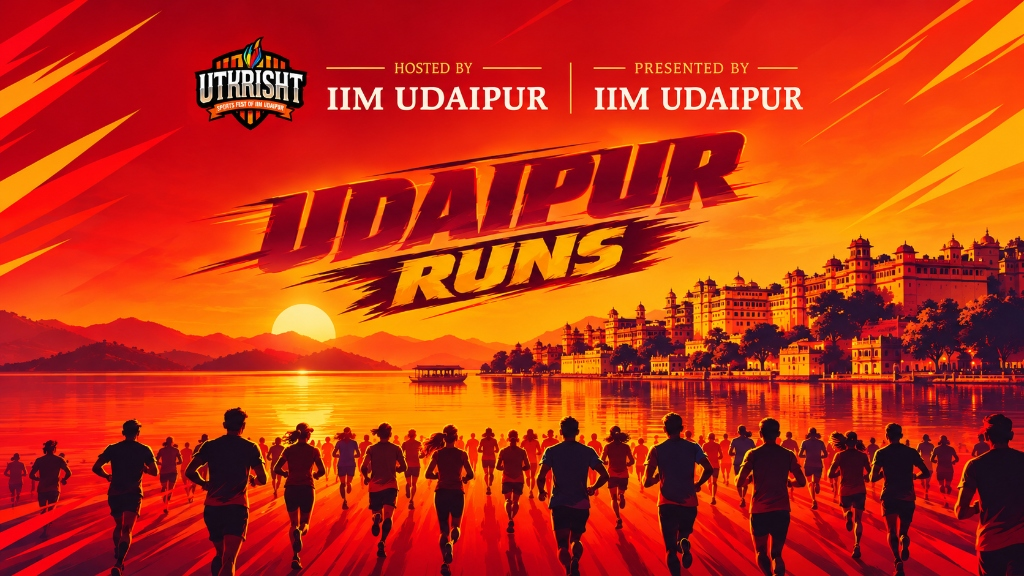
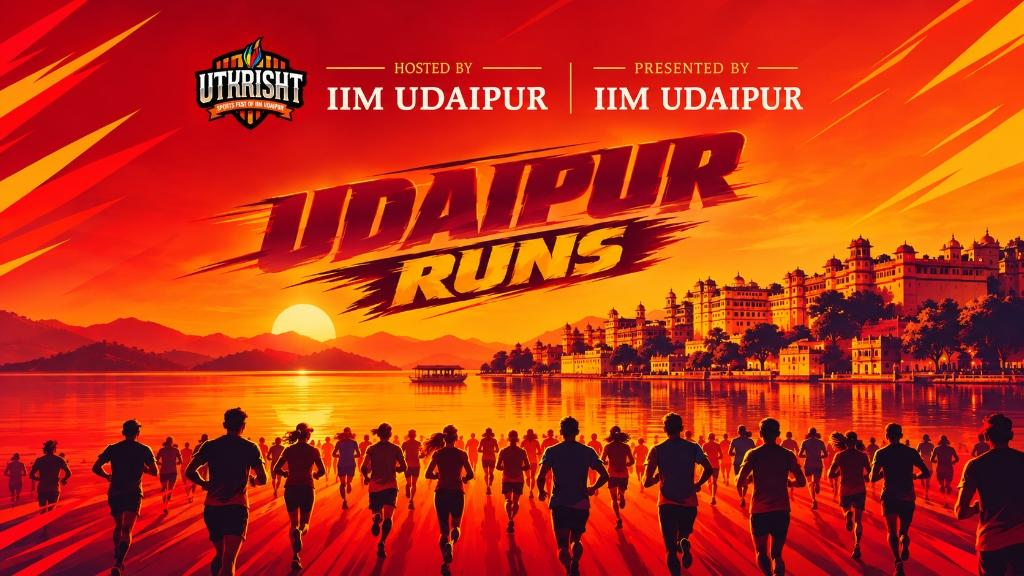
Remove official sponsor tag, optimize splash image 70%, add direct resource preloads, and remove artificial timeout

diff --git a/index.html b/index.html
@@ -17,6 +17,9 @@
 <meta name="twitter:description" content="Outrun the leopard. Survive campus.">
 <meta name="twitter:image" content="https://vasudevmishra0101.github.io/IIMRunner/media/og.jpg">
 <link rel="icon" href="game/index.icon.png">
+<link rel="preload" as="fetch" href="game/index.pck" crossorigin>
+<link rel="preload" as="fetch" href="game/index.wasm" crossorigin>
+<link rel="preload" as="image" href="media/ad_splash.jpg">
 <link rel="preload" as="image" href="media/hero-poster.jpg">
 <link rel="preconnect" href="https://fonts.googleapis.com"><link rel="preconnect" href="https://fonts.gstatic.com" crossorigin>
 <link href="https://fonts.googleapis.com/css2?family=Familjen+Grotesk:wght@400;500;600;700&family=Rozha+One&family=Spline+Sans+Mono:wght@400;500;700&display=swap" rel="stylesheet">
@@ -206,7 +209,6 @@ footer .wrap{display:flex;flex-wrap:wrap;gap:14px 40px;justify-content:space-bet
 #play.waiting{background:#000;display:flex;align-items:center;justify-content:center}
 #play.waiting .ad-splash-wrap{display:flex;flex-direction:column;align-items:center;justify-content:center;width:100%;height:100%;position:relative;background:#0a0503}
 #play.waiting .ad-splash-wrap img{max-width:100%;max-height:100%;object-fit:contain;box-shadow:0 0 50px rgba(0,0,0,0.8)}
-#play.waiting .ad-tag{position:absolute;top:20px;left:24px;background:rgba(0,0,0,0.7);color:var(--saffron);padding:4px 14px;border-radius:20px;font:700 12px "Spline Sans Mono",monospace;letter-spacing:0.12em;text-transform:uppercase;border:1px solid rgba(255,255,255,0.15)}
 #play .ctrl #skip{background:var(--saffron);color:#1c0f0b;border-color:transparent}
 #play video{object-fit:contain;z-index:2}
 #play iframe{z-index:1}
@@ -534,7 +536,6 @@ body.infeat .bar{background:rgba(236,232,224,.74);border-bottom:1px solid rgba(2
 <div id="play" role="dialog" aria-label="Game" aria-modal="true">
   <iframe id="game" title="College Runs" allow="autoplay; fullscreen; gamepad" allowfullscreen></iframe>
   <div class="ad-splash-wrap" id="adSplash" style="display:none">
-    <span class="ad-tag">Official Sponsor</span>
     <img src="media/ad_splash.jpg" alt="Featured Run" draggable="false">
   </div>
   <video id="wake" playsinline preload="none" poster="media/hero-poster.jpg"></video>
@@ -813,11 +814,9 @@ async function bootGame(){
   status.textContent="Loading game…";bar.style.display="block";
   frame.src="game/index.html?map="+gameMap+"&name="+encodeURIComponent(store.get("iimrun_name",""));
   frame.onload=()=>{
-    setTimeout(()=>{
-      play.classList.remove("waiting");
-      if(adSplash)adSplash.style.display="none";
-      status.textContent="";bar.style.display="none";frame.focus();
-    }, 1200);
+    play.classList.remove("waiting");
+    if(adSplash)adSplash.style.display="none";
+    status.textContent="";bar.style.display="none";frame.focus();
   };
 }
 function skip(){if(!clipOn)return;track("intro_skip");bootGame()}

diff --git a/game/index.html b/game/index.html
@@ -108,7 +108,6 @@ body {
 		</noscript>
 
 		<div id="status">
-			<div style="position:absolute;top:24px;left:24px;background:rgba(0,0,0,0.7);color:#f49342;padding:6px 16px;border-radius:20px;font:700 13px monospace;letter-spacing:0.12em;text-transform:uppercase;border:1px solid rgba(255,255,255,0.2);z-index:2">OFFICIAL SPONSOR</div>
 			<img id="status-splash" class="show-image--true fullsize--true use-filter--true" src="index.png" alt="">
 			<progress id="status-progress"></progress>
 			<div id="status-notice"></div>
